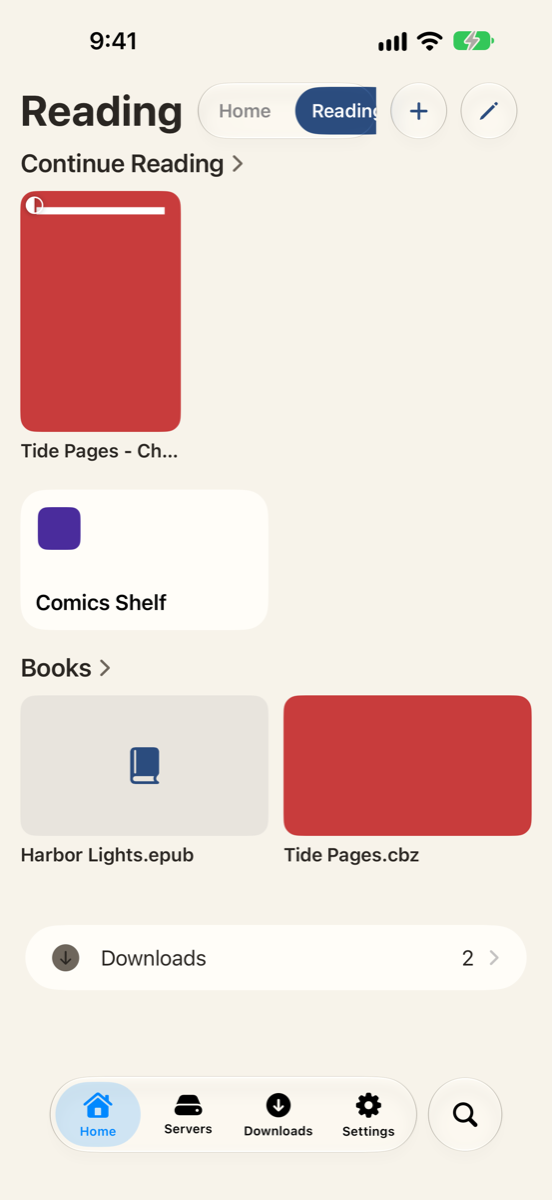
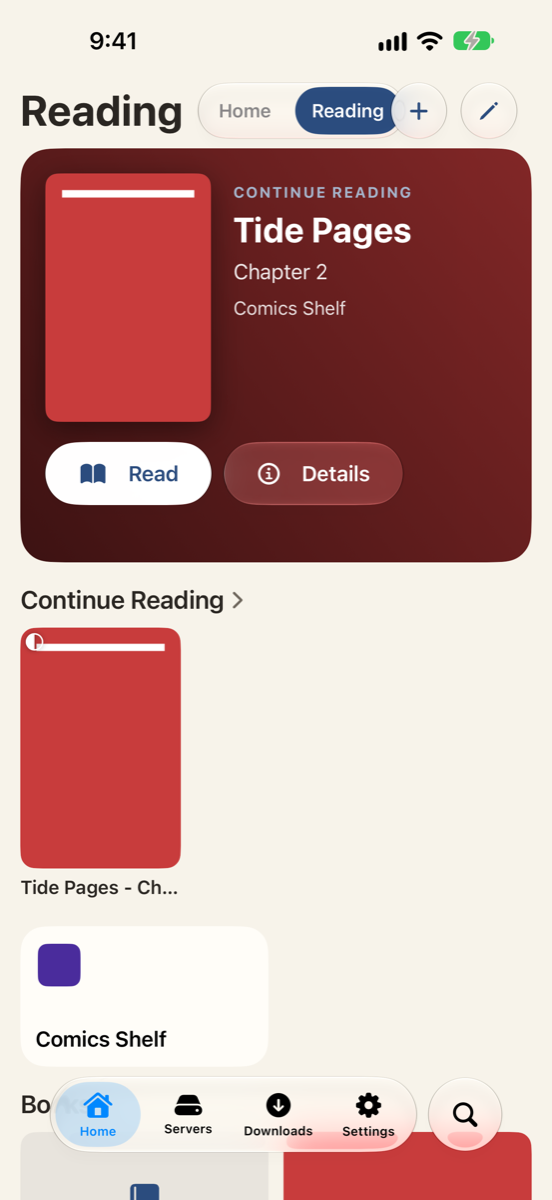
Publish the guide (from 0a94580)

diff --git a/Home-Screen.md b/Home-Screen.md
@@ -87,6 +87,8 @@ Tap it while editing to choose what it shows, under **Gathers**:
 
 Below that, switch servers and catalogs on or off, as for any smart widget.
 
+For a book, the card shows its cover big, with the series, the chapter, how far you are and which catalog it's from, then **Read** and **Details**. **Details** opens the book's series where the catalog says which one it belongs to (Kavita does), or else the list it came from.
+
 - With nothing in progress, it shows the newest thing on that Home's first shelf.
 - With nothing at all to show, it keeps out of the way until you edit Home.
 
@@ -152,9 +154,9 @@ Keep different things apart with separate Homes, such as one for video and one f
 - **Order**: in Settings → Home Screen, drag Homes into the order you like. The top one opens first, unless **Open on Last Viewed Home** is on.
 
 <div class="shot" markdown="0">
-<div class="shot-variant shot-iphone-18-pro-max"><img src="images/iphone-18-pro-max/home-reading.png" alt="The Reading Home in the Paper theme, on an iPhone 18 Pro Max" loading="lazy"><div class="shot-label">iPhone 18 Pro Max</div></div>
-<div class="shot-variant shot-duo-front"><img src="images/duo-front/home-reading.png" alt="The Reading Home in the Paper theme, on the iPhone Duo, closed" loading="lazy"><div class="shot-label">iPhone Duo — closed</div></div>
-<div class="shot-variant shot-duo-open-side"><img src="images/duo-open-side/home-reading.png" alt="The Reading Home in the Paper theme, on the iPhone Duo, open on its side" loading="lazy"><div class="shot-label">iPhone Duo — open, on its side</div></div>
+<div class="shot-variant shot-iphone-18-pro-max"><img src="images/iphone-18-pro-max/home-reading.png" alt="The Reading Home in the Paper theme on an iPhone 18 Pro Max: a Spotlight with the comic Tide Pages, Chapter 2, from Comics Shelf, with Read and Details, on an iPhone 18 Pro Max" loading="lazy"><div class="shot-label">iPhone 18 Pro Max</div></div>
+<div class="shot-variant shot-duo-front"><img src="images/duo-front/home-reading.png" alt="The Reading Home in the Paper theme on an iPhone 18 Pro Max: a Spotlight with the comic Tide Pages, Chapter 2, from Comics Shelf, with Read and Details, on the iPhone Duo, closed" loading="lazy"><div class="shot-label">iPhone Duo — closed</div></div>
+<div class="shot-variant shot-duo-open-side"><img src="images/duo-open-side/home-reading.png" alt="The Reading Home in the Paper theme on an iPhone 18 Pro Max: a Spotlight with the comic Tide Pages, Chapter 2, from Comics Shelf, with Read and Details, on the iPhone Duo, open on its side" loading="lazy"><div class="shot-label">iPhone Duo — open, on its side</div></div>
 </div>
 
 ## Themes and backdrops

diff --git a/whats-new.md b/whats-new.md
@@ -12,6 +12,28 @@ The highlights of each MK Plus update since public TestFlight testing began (ver
 
 ## November 2026
 
+### A Spotlight for books
+
+_Version 1.374.0 · 16 November 2026_
+
+- A book in Spotlight shows its cover big, the chapter and how far you are, with Read and Details.
+- The label on the card is easy to read in every theme.
+
+<details markdown="1">
+<summary>Everything in 1.374.0</summary>
+
+**New**
+
+- Spotlight's card for a book: the cover, the series and chapter, how far you are and where it's from, on the cover's own colors.
+- Details on a book opens its series, where the catalog says which.
+- A Reading Spotlight shows your other books as covers under it, on the open Duo and the iPad.
+
+**Fixed**
+
+- The label on the Spotlight card could be hard to read, such as blue on a red cover. It's lighter now, and the buttons stay readable in a light theme.
+
+</details>
+
 ### Spotlight as a widget
 
 _Version 1.373.0 · 16 November 2026_
